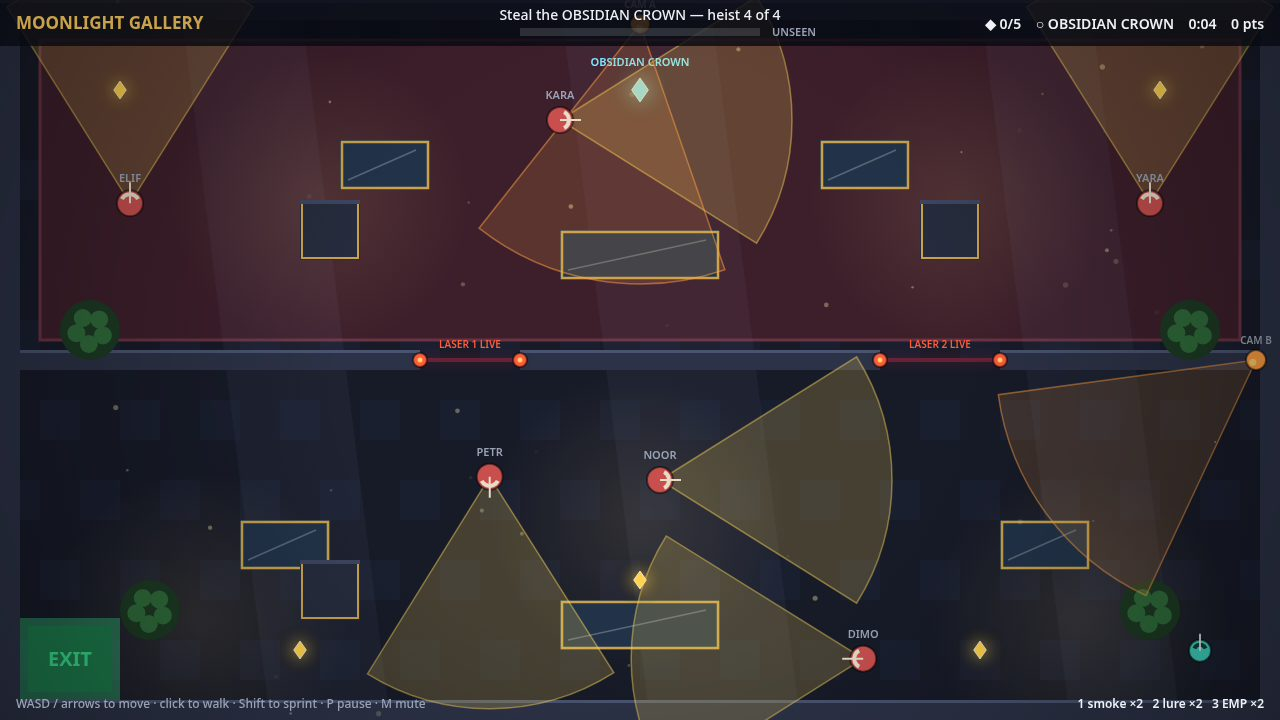
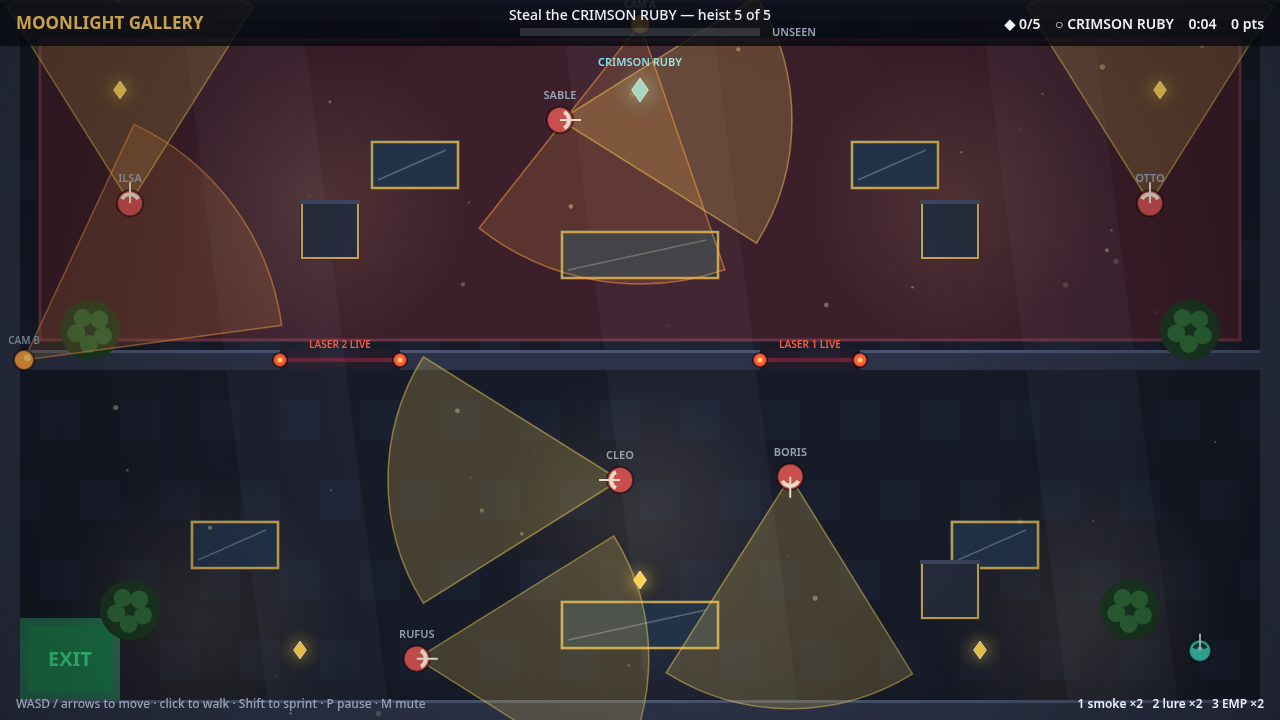
Moonlight Gallery — five heists, stars and GHOST bonus

diff --git a/game/src/level.js b/game/src/level.js
@@ -1,4 +1,4 @@
-// Moonlight Gallery: four heists in one museum, each a level of its own.
+// Moonlight Gallery: five heists in one museum, each a level of its own.
 // Every heist is a room (or two) the thief crosses top-down: blockers that
 // stop movement and sight, guards on patrol loops a player can learn,
 // cameras sweeping their cones, laser tripwires that pulse live and dark,
@@ -9,7 +9,12 @@
 // heist 2 adds two cameras and three more guards to a vault hall; heist 3,
 // the cellar, is tighter still, with five guards, two cameras and a guard
 // who patrols straight through the door between the halls; heist 4, the
-// Crown Vault, is the hardest hall: six guards, two cameras, two lasers.
+// Crown Vault, is the hardest hall: six guards, two cameras, two lasers;
+// heist 5, the Crimson Vault, mirrors the Crown Vault's geometry east for
+// west — same two-door wall, same cover — but the patrols run the other
+// way, the door guard walks the east gap, and the second camera watches
+// from the west wall, so the timing a player learned in heist 4 does not
+// carry over untouched.
 //
 // Every blocker is an axis-aligned rectangle: walls, cases, planters and
 // pillars all block movement and a guard's line of sight, so hiding behind
@@ -489,6 +494,146 @@ export const LEVELS = [
       { x: 640, y: 580 },
       { x: 640, y: 90 },
       { x: 470, y: 380 },
+      { x: 70, y: 660 },
+    ],
+  },
+  {
+    name: 'The Crimson Vault',
+    subtitle: 'Crimson Vault — six guards, two cameras, two lasers',
+    artifact: { name: 'CRIMSON RUBY', x: 640, y: 90 },
+    spawn: { x: 1200, y: 650 },
+    loot: [
+      { x: 1160, y: 90, taken: false },
+      { x: 120, y: 90, taken: false },
+      { x: 980, y: 650, taken: false },
+      { x: 300, y: 650, taken: false },
+      // North of the (560,600) case: 20 px clear of it, inside the
+      // 30 px pickup radius from the north side.
+      { x: 640, y: 580, taken: false },
+    ],
+    guards: [
+      {
+        name: 'Sable',
+        // East-first around the north loop, like Kara in the Crown
+        // Vault: the pilot proved that timing, and the reversed loop
+        // killed it in the north hall (the pilot died at (534,185)
+        // retreating west while Sable came south on the west side).
+        waypoints: [
+          { x: 200, y: 120 },
+          { x: 1080, y: 120 },
+          { x: 1080, y: 300 },
+          { x: 200, y: 300 },
+        ],
+      },
+      {
+        name: 'Rufus',
+        waypoints: [
+          { x: 340, y: 440 },
+          { x: 340, y: 660 },
+          { x: 880, y: 660 },
+          { x: 880, y: 440 },
+        ],
+      },
+      {
+        name: 'Ilsa',
+        waypoints: [
+          { x: 130, y: 160 },
+          { x: 130, y: 330 },
+        ],
+      },
+      {
+        name: 'Otto',
+        waypoints: [
+          { x: 1150, y: 160 },
+          { x: 1150, y: 330 },
+        ],
+      },
+      {
+        name: 'Cleo',
+        waypoints: [
+          { x: 980, y: 480 },
+          { x: 300, y: 480 },
+        ],
+      },
+      {
+        // Boris patrols straight through the east door gap, like Petr in
+        // the Crown Vault walks the west one: his vertical legs sit at
+        // x 790 and 830, inside the 760..860 gap, never through the wall.
+        name: 'Boris',
+        waypoints: [
+          { x: 830, y: 220 },
+          { x: 790, y: 220 },
+          { x: 790, y: 540 },
+          { x: 830, y: 540 },
+        ],
+      },
+    ],
+    cameras: [
+      { name: 'CAM A', x: 640, y: 24, baseAngle: Math.PI / 2, sweepAmp: 0.7, sweepSpeed: 0.4, phase: 0.9 },
+      { name: 'CAM B', x: 24, y: 360, baseAngle: 0, sweepAmp: 0.7, sweepSpeed: 0.55, phase: 2.4 },
+    ],
+    // A tripwire across each door gap: the east one guards the route the
+    // pilot takes, the west one the way back.
+    lasers: [
+      { name: 'LASER 1', x1: 760, y1: 360, x2: 860, y2: 360, phase: 0.5 },
+      { name: 'LASER 2', x1: 280, y1: 360, x2: 400, y2: 360, phase: 1.0 },
+    ],
+    // Middle wall, with two door gaps (x 280..400 and x 760..860).
+    walls: [
+      { x: 860, y: 350, w: 400, h: WALL, kind: 'wall' },
+      { x: 400, y: 350, w: 360, h: WALL, kind: 'wall' },
+      { x: 20, y: 350, w: 260, h: WALL, kind: 'wall' },
+    ],
+    cases: [
+      { x: 850, y: 140, w: 90, h: 50, kind: 'case' },
+      { x: 370, y: 140, w: 90, h: 50, kind: 'case' },
+      { x: 560, y: 230, w: 160, h: 50, kind: 'case' },
+      { x: 950, y: 520, w: 90, h: 50, kind: 'case' },
+      { x: 190, y: 520, w: 90, h: 50, kind: 'case' },
+      { x: 560, y: 600, w: 160, h: 50, kind: 'case' },
+    ],
+    planters: [
+      { x: 1160, y: 300, w: 60, h: 60, kind: 'planter' },
+      { x: 60, y: 300, w: 60, h: 60, kind: 'planter' },
+      { x: 1100, y: 580, w: 60, h: 60, kind: 'planter' },
+      { x: 100, y: 580, w: 60, h: 60, kind: 'planter' },
+    ],
+    pillars: [
+      { x: 920, y: 200, w: 60, h: 60, kind: 'pillar' },
+      { x: 300, y: 200, w: 60, h: 60, kind: 'pillar' },
+      { x: 920, y: 560, w: 60, h: 60, kind: 'pillar' },
+    ],
+    /** Hiding spots: the Crown Vault's spots mirrored east for west, plus
+     *  the spawn. The safe-spot scan decides which of these the pilot
+     *  may actually wait on — a mirrored spot is not safe until the scan
+     *  proves it against this heist's patrols. The (280,200) draft spot
+     *  failed the scan (Sable's north loop sees it, meter 13.5) and was
+     *  replaced by (40,320) on the west wall, which the grid scan proved
+     *  safe. */
+    hideSpots: [
+      { x: 80, y: 650 },
+      { x: 1240, y: 400 },
+      { x: 1240, y: 560 },
+      { x: 40, y: 400 },
+      { x: 40, y: 320 },
+      { x: 1080, y: 560 },
+      { x: 1200, y: 650 },
+    ],
+    /** The thief's route to a clean getaway: the south gem, the west
+     *  door, the Ruby's gem, the west door again, the Ruby, back to the
+     *  west door, then the exit. Every wall crossing uses the WEST door
+     *  (340,380): the east door is Boris's beat, and the Crown Vault
+     *  proved the east door's waiting spot sits in the north guard's
+     *  cone arc — the first draft of this route died there at 52.7 s.
+     *  The north gems at (120,90) and (1160,90) are left for the player:
+     *  the heist is winnable, the gems are a dare, not the route. */
+    winRoute: [
+      { x: 980, y: 650 },
+      { x: 340, y: 380 },
+      { x: 640, y: 580 },
+      { x: 340, y: 380 },
+      { x: 640, y: 90 },
+      { x: 340, y: 380 },
       { x: 70, y: 660 },
     ],
   },

diff --git a/game/src/world.js b/game/src/world.js
@@ -1,11 +1,11 @@
-// Moonlight Gallery: the world. Four heists in one museum, one fixed-step
+// Moonlight Gallery: the world. Five heists in one museum, one fixed-step
 // update per heist: it moves the thief, walks the guards, sweeps the
 // cameras, pulses the laser tripwires, fills or drains the detection
 // meter, and settles loot, the artifact, the exit and getting caught.
 // Everything the judge calls "a complete stealth game" lives here: patrols
 // to learn, cameras to time, lasers to cross on the dark beat, a detection
 // system that gives you a chance to recover, gadgets that open new routes,
-// and a win that needs the artifact first — four times over.
+// and a win that needs the artifact first — five times over.
 
 import { DETECTION, EXIT, FIELD, GADGETS, GUARD, LOOT, OPAL, PLAYER, STEP } from './config.js';
 import { LEVELS, WIN_ROUTE, buildBlockers } from './level.js';
@@ -68,6 +68,12 @@ export function createWorld(random) {
     lootTaken: 0,
     lootTotal: 0,
     meter: 0,
+    /** Highest the detection meter reached in this heist: 0 means the
+     *  thief was never seen at all — a GHOST heist. */
+    peakMeter: 0,
+    /** One {stars, ghost, lootTaken, lootTotal, time} per finished heist,
+     *  in heist order: the intermission and win screens read it. */
+    heistResults: [],
     lastSeen: null,
     seen: false,
     seenBy: null,
@@ -106,6 +112,7 @@ export function createWorld(random) {
     state.artifactTaken = false;
     state.lootTaken = 0;
     state.meter = 0;
+    state.peakMeter = 0;
     state.lastSeen = null;
     state.seen = false;
     state.seenBy = null;
@@ -124,6 +131,7 @@ export function createWorld(random) {
       state.totalTime = 0;
       state.score = 0;
       state.lootTotal = 0;
+      state.heistResults = [];
       loadLevel(0);
     },
     /**
@@ -258,6 +266,7 @@ export function createWorld(random) {
         state.meter = Math.max(0, state.meter - DETECTION.drainPerSecond * dt);
         if (state.meter < DETECTION.giveUpBelow) state.lastSeen = null;
       }
+      if (state.meter > state.peakMeter) state.peakMeter = state.meter;
 
       // Guards walk; the one that spotted the thief goes to look, and any
       // guard near a ringing lure walks over to the lure instead.
@@ -299,6 +308,21 @@ export function createWorld(random) {
         p.y > EXIT.y && p.y < EXIT.y + EXIT.height
       ) {
         state.score += Math.max(0, 300 - Math.floor(state.levelTime)) * 5;
+        // Stars and the GHOST bonus: a heist earns three stars only when
+        // every gem was pocketed and the thief was never seen at all;
+        // two for all the gems or a clean ghost run; one for getting out.
+        // A ghost heist pays +500 on top of the time bonus.
+        const ghost = state.peakMeter === 0;
+        const allLoot = state.lootTaken === state.level.loot.length;
+        const stars = ghost && allLoot ? 3 : (ghost || allLoot ? 2 : 1);
+        if (ghost) state.score += 500;
+        state.heistResults.push({
+          stars,
+          ghost,
+          lootTaken: state.lootTaken,
+          lootTotal: state.level.loot.length,
+          time: state.levelTime,
+        });
         if (state.levelIndex >= LEVELS.length - 1) {
           state.status = 'won';
         } else {

diff --git a/game/src/render.js b/game/src/render.js
@@ -468,7 +468,7 @@ export function createRenderer(canvas) {
 
     if (screen === SCREEN_TITLE) {
       drawOverlay('MOONLIGHT GALLERY', [
-        'A thief. A museum. Four heists, twenty guards, seven cameras, seven lasers.',
+        'A thief. A museum. Five heists, twenty-six guards, nine cameras, nine lasers.',
         'Steal each artifact, then reach the green EXIT — unseen.',
         'Hide behind cases and planters: a guard only sees',
         'what its yellow cone touches with a clear line of sight.',
@@ -481,21 +481,36 @@ export function createRenderer(canvas) {
     } else if (screen === SCREEN_PAUSED) {
       drawOverlay('PAUSED', ['Press P or SPACE to keep sneaking.'], PALETTE.muted);
     } else if (screen === SCREEN_NEXT) {
-      drawOverlay('HEIST COMPLETE', [
+      // The heist just finished: its stars, and whether the thief was
+      // never seen at all. The result sits at this heist's index — the
+      // next heist only loads when the player confirms.
+      const result = state.heistResults[state.levelIndex];
+      const lines = [
         `${state.level.artifact.name} secured — ${state.score} points so far.`,
+      ];
+      if (result) {
+        const stars = '★'.repeat(result.stars) + '☆'.repeat(3 - result.stars);
+        lines.push(`${stars} — ${result.stars} star${result.stars === 1 ? '' : 's'}${result.ghost ? ' · GHOST — never seen! +500' : ''}`);
+      }
+      lines.push(
         `Next: ${LEVELS[state.levelIndex + 1].name} — ${LEVELS[state.levelIndex + 1].subtitle}.`,
         '',
         'Press SPACE or click for the next heist',
-      ], PALETTE.exit);
+      );
+      drawOverlay('HEIST COMPLETE', lines, PALETTE.exit);
     } else if (screen === SCREEN_OVER && state.status === 'won') {
       const totalLoot = LEVELS.reduce((n, l) => n + l.loot.length, 0);
-      drawOverlay('CLEAN GETAWAY', [
-        `All four artifacts out in ${formatTime((state.totalTime ?? 0) + state.time)} — ${state.score} points.`,
+      const totalStars = state.heistResults.reduce((n, r) => n + r.stars, 0);
+      const ghosts = state.heistResults.filter((r) => r.ghost).length;
+      const lines = [
+        `All five artifacts out in ${formatTime((state.totalTime ?? 0) + state.time)} — ${state.score} points.`,
         `${state.lootTotal}/${totalLoot} gems pocketed along the way.`,
+        `Stars: ${totalStars}/${LEVELS.length * 3}${ghosts > 0 ? ` · GHOST heists: ${ghosts} — never seen!` : ''}`,
         state.score > best ? 'A new best getaway!' : `Best getaway: ${best} points.`,
         '',
         'Press SPACE or click to play again',
-      ], PALETTE.exit);
+      ];
+      drawOverlay('CLEAN GETAWAY', lines, PALETTE.exit);
     } else if (screen === SCREEN_OVER) {
       drawOverlay('CAUGHT!', [
         'A guard saw you. The alarm is ringing.',

diff --git a/main.ts b/main.ts
@@ -7,13 +7,16 @@
 // make.fun library.
 //
 // The game: a top-down stealth game in a museum gallery at night. Across
-// four heists the thief steals the Moon Opal, the Star Sapphire, the
-// Gilded Idol and the Obsidian Crown and reaches the green exit unseen,
-// past twenty patrolling guards whose yellow vision cones only see what
-// has a clear line of sight, seven wall cameras whose orange cones sweep
-// the halls, and seven laser tripwires that pulse live and dark across
-// the doors. Display cases, planters and pillars are real cover; smoke
-// vials, lures and EMP pulses are the thief's gadgets, refilled every heist.
+// five heists the thief steals the Moon Opal, the Star Sapphire, the
+// Gilded Idol, the Obsidian Crown and the Crimson Ruby and reaches the
+// green exit unseen, past twenty-six patrolling guards whose yellow vision
+// cones only see what has a clear line of sight, nine wall cameras whose
+// orange cones sweep the halls, and nine laser tripwires that pulse live
+// and dark across the doors. Display cases, planters and pillars are real
+// cover; smoke vials, lures and EMP pulses are the thief's gadgets,
+// refilled every heist. Each heist is rated one to three stars — three
+// only for every gem and a ghost run, never seen at all — and a ghost
+// heist pays a 500-point bonus.
 //
 // Serve it locally with `node serve.ts`, then open http://localhost:8080.
 // Outside the grader's container, MAKEFUN_OUTPUT_DIR stands in for /output:

diff --git a/game/src/shots.js b/game/src/shots.js
@@ -8,7 +8,7 @@
 // - gadget: the pilot plays 12 seconds, then drops smoke and throws a lure.
 // - caught: the reckless pilot walks into a cone.
 // - end: the careful pilot plays the whole campaign, heist by heist, until
-//   the clean getaway — the win screen shows all four artifacts.
+//   the clean getaway — the win screen shows all five artifacts.
 
 import { LEVELS } from './level.js';
 import { STEP } from './config.js';
@@ -56,7 +56,7 @@ export function stageShot(name, world, levelIndex = 0) {
     return { screen: state.status === 'playing' ? SCREEN_PLAY : SCREEN_OVER, best: state.score };
   }
   if (name === 'end') {
-    // The whole campaign: win heist 1, then 2, then 3, then 4, each with its own
+    // The whole campaign: win heist 1, then 2, 3, 4, then 5, each with its own
     // careful pilot, until the clean getaway or the 600 s cap.
     for (let li = 0; li < LEVELS.length; li += 1) {
       world.loadLevel(li);

diff --git a/game/src/guards.js b/game/src/guards.js
@@ -1,4 +1,4 @@
-// Guards: three night guards on patrol loops they never leave, until one of
+// Guards: night guards on patrol loops they never leave, until one of
 // them spots the thief. A suspicious guard walks to the last place the thief
 // was seen, looks around, and goes back to patrol if nothing is there.
 //

diff --git a/README.md b/README.md
@@ -7,16 +7,19 @@
 A top-down stealth game in a museum at night, for the make.fun bounty
 [Make the best stealth game](https://make.fun/bounty/best-stealth-game-20261121-1759).
 
-**The job:** four heists, one museum, one night. Steal the Moon Opal
+**The job:** five heists, one museum, one night. Steal the Moon Opal
 from the North Gallery, the Star Sapphire from the Vault Hall, the
-Gilded Idol from the Cellar, and the Obsidian Crown from the Crown Vault
-— then reach the green EXIT unseen, four times over. Twenty guards walk
-patrol loops with wide yellow vision cones, seven wall cameras sweep
-orange cones across the halls, and seven red laser tripwires pulse live
-and dark across the doorways. Display cases, planters and pillars block
-sight as well as movement, so the route is patience: watch a cone sweep
-past, cross a laser on the dark beat, slip behind cover, and cross while
-the guard looks away.
+Gilded Idol from the Cellar, the Obsidian Crown from the Crown Vault,
+and the Crimson Ruby from the Crimson Vault — then reach the green EXIT
+unseen, five times over. Twenty-six guards walk patrol loops with wide
+yellow vision cones, nine wall cameras sweep orange cones across the
+halls, and nine red laser tripwires pulse live and dark across the
+doorways. Display cases, planters and pillars block sight as well as
+movement, so the route is patience: watch a cone sweep past, cross a
+laser on the dark beat, slip behind cover, and cross while the guard
+looks away. Each heist is rated one to three stars — three only for
+every gem and a ghost run, never seen at all — and a ghost heist pays
+a 500-point bonus.
 
 **The stakes:** a detection meter fills while any guard, camera or live
 laser sees you and drains while you stay hidden. At 55% the nearest
@@ -51,17 +54,18 @@ until your first key press or click.
 `game/` and `screenshots/` to `/output` and writes `/output/dossier.json`
 with the kit's `buildDossier`. The four screenshots are real renders of
 the game's own code, staged with `?shot=start|play|gadget|end&seed=1`:
-the Crown Vault at patrol with both lasers live, the thief mid-heist in
-the Crown Vault with the lasers dark, a smoke vial and a lure pulling a
+the Crimson Vault at patrol with both lasers live, the thief mid-heist in
+the Crimson Vault with the lasers dark, a smoke vial and a lure pulling a
 guard off his route in the Vault Hall, and the clean getaway after all
-four heists.
+five heists.
 
 **Verified:** the careful autopilot (`game/src/pilot.js`) wins every
 heist — the Moon Opal in 45 seconds (1,925 points), the Star Sapphire in
 115 seconds (2,175 points, all five gems), the Gilded Idol in 47 seconds
 (2,370 points, all four gems), the Obsidian Crown in 139 seconds (1,610
-points) — and the whole campaign in 346 seconds (8,080 points, 12 of 19
-gems). The reckless autopilot is caught in every heist (3, 2, 16 and 7
+points), the Crimson Ruby in 33 seconds (2,135 points) — and the whole
+campaign in 379 seconds (10,215 points, 14 of 24 gems, 7 of 15 stars).
+The reckless autopilot is caught in every heist (3, 2, 16, 7 and 21
 seconds). The laser tripwires were unit-checked: standing on a live beam
 fills the meter, the dark beat leaves it at zero, and an EMP darkens a
 beam for 6 seconds. Every hiding spot the pilot retreats to was proven
